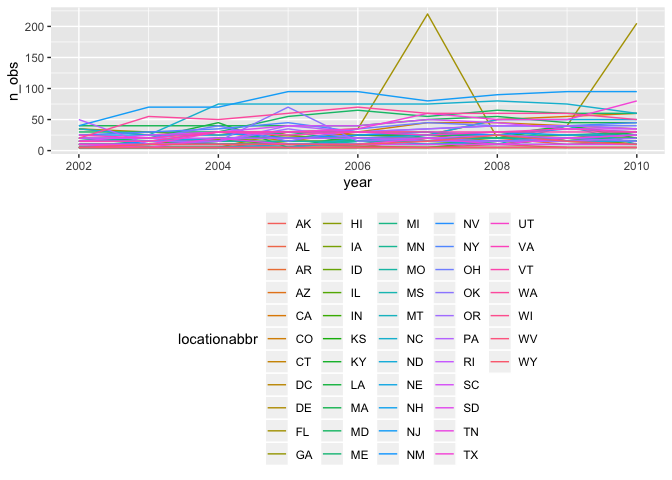
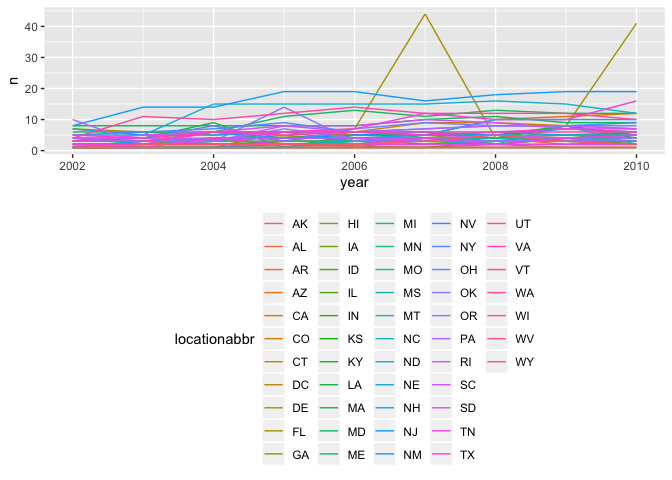
I updated my code based on the changes in the homework since the last time I looked at it.

diff --git a/p8105_hw3_tm2680.md b/p8105_hw3_tm2680.md
@@ -12,7 +12,7 @@ brfss_data = brfss_smart2010 %>%
   janitor::clean_names() %>% 
   filter(topic == "Overall Health") %>% 
   select(-class, -topic, -question, -data_value_footnote_symbol:-respid) %>% 
-  mutate(response = factor(response, levels = c("Excellent", "Very good", "Good", "Fair", "Poor"))) 
+  mutate(response = factor(response, levels = c("Excellent", "Very good", "Good", "Fair", "Poor", ordered = TRUE))) 
 ```
 
 ``` r
@@ -38,15 +38,15 @@ In 2002, Connecticut, Florida, Massachusetts, North Carolina, New Jersey, and Pe
 ``` r
 brfss_data %>% 
   group_by(locationabbr, year) %>% 
-  summarize(n_obs = n()) %>% 
-  ggplot(aes(x = year, y = n_obs, color = locationabbr)) + 
+  mutate(n = n_distinct(geo_location)) %>% 
+  ggplot(aes(x = year, y = n, color = locationabbr)) + 
   geom_line() + 
   theme(legend.position = "bottom")
 ```
 
 ![](p8105_hw3_tm2680_files/figure-markdown_github/brfss_spag_plot-1.png)
 
-Here is my spaghetti plot showing the number of observations across time for the `brfss_data` dataset. The colors correspond to state, and the data is from 2002 to 2010.
+Here is my spaghetti plot showing the number of locations across time for the `brfss_data` dataset. The colors correspond to state, and the data is from 2002 to 2010.
 
 ``` r
 brfss_data %>% 
@@ -76,17 +76,27 @@ This is my table that shows the mean and standard deviation for the proportion o
 
 ``` r
 brfss_data %>% 
-  group_by(year, locationabbr) %>% 
   spread(response, data_value) %>% 
   janitor::clean_names() %>% 
-  summarize(mean_exc = mean(excellent, na.rm = TRUE),
-            mean_vgood = mean(very_good, na.rm = TRUE),
-            mean_good = mean(good, na.rm = TRUE),
-            mean_fair = mean(fair, na.rm = TRUE),
-            mean_poor = mean(poor, na.rm = TRUE)) %>% 
-  ggplot(aes(x = year, y = mean_exc)) +
-  geom_point(alpha = .05) +
-  facet_grid(. ~ mean_exc)
+  group_by(year, locationabbr, excellent, very_good, good, fair, poor) 
 ```
 
-![](p8105_hw3_tm2680_files/figure-markdown_github/brfss_prop_resp-1.png)
+    ## # A tibble: 10,625 x 15
+    ## # Groups:   year, locationabbr, excellent, very_good, good, fair, poor
+    ## #   [10,148]
+    ##     year locationabbr locationdesc sample_size confidence_limi…
+    ##    <int> <chr>        <chr>              <int>            <dbl>
+    ##  1  2010 AL           AL - Jeffer…          94             14.1
+    ##  2  2010 AL           AL - Jeffer…         148             24.9
+    ##  3  2010 AL           AL - Jeffer…         208             28.2
+    ##  4  2010 AL           AL - Jeffer…         107              9.5
+    ##  5  2010 AL           AL - Jeffer…          45              3.5
+    ##  6  2010 AL           AL - Mobile…          91             11  
+    ##  7  2010 AL           AL - Mobile…         177             26  
+    ##  8  2010 AL           AL - Mobile…         224             26.1
+    ##  9  2010 AL           AL - Mobile…         120             11.7
+    ## 10  2010 AL           AL - Mobile…          66              4.4
+    ## # ... with 10,615 more rows, and 10 more variables:
+    ## #   confidence_limit_high <dbl>, display_order <int>,
+    ## #   data_value_unit <chr>, data_value_type <chr>, geo_location <chr>,
+    ## #   excellent <dbl>, very_good <dbl>, good <dbl>, fair <dbl>, poor <dbl>
